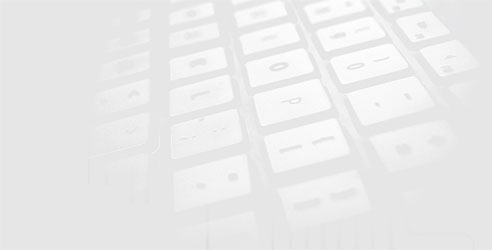
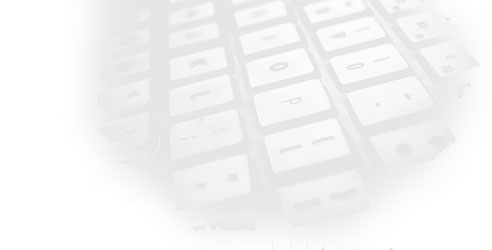
Create and fill out about page

diff --git a/karlfloersch/static/css/styles.css b/karlfloersch/static/css/styles.css
@@ -7,11 +7,33 @@ body {
   background-color: #eeeeee;
   background-image: url("../images/background.gif");
   background-repeat: repeat;
+  color: #555555;
 }
 
 footer {
 	text-align: center;
 }
+h1 {
+    font-family: 'Fjalla One', sans-serif;
+    font-size: 72px;
+}
+h2 {
+    font-family: 'Fjalla One', sans-serif;
+    font-size: 37px;
+}
+h3 {
+    font-family: 'Fjalla One', sans-serif;
+}
+h4 {
+    font-family: 'Fjalla One', sans-serif;
+}
+h5 {
+    font-family: 'Fjalla One', sans-serif;
+}
+h6 {
+    font-family: 'Fjalla One', sans-serif;
+}
+
 
 
 /* vvvvvvvv  HOMEPAGE  vvvvvvvv */
@@ -41,8 +63,9 @@ footer {
     background-repeat: repeat-x;
 }
 .static-header{
-    height: 400px;
-    background: url('../images/keyboard.jpg') right top no-repeat;
+    padding-top: 20px;
+    height: 230px;
+    background: url('../images/keyboard.png') right top no-repeat;
 }
 .static-header-list{
     list-style-type: none;
@@ -76,6 +99,7 @@ footer {
 /* vvvvvvvv  NAV BAR CSS  vvvvvvvv */
 .navbar {
   margin-bottom: 30px;
+  display:none;
 }
 .navbar-brand {
     padding-top: 0px;

diff --git a/templates/about.html b/templates/about.html
@@ -1,0 +1,38 @@
+{% extends 'base.html' %}
+{% load cms_tags static %}
+
+{% block breadcrumb %}{% endblock %}
+
+{% block content %}
+
+{% placeholder title %}
+
+<img src="{% static "images/me.png" %}" class="img-responsive" style="margin: 0 auto;" alt="Responsive image">
+<br>
+<br>
+<br>
+{% placeholder content1 %}
+
+<img src="{% static "images/making_is_fun.png" %}" class="img-responsive" style="margin: 0 auto;" alt="Responsive image">
+
+<br>
+<br>
+<br>
+{% placeholder content2 %}
+
+<img src="{% static "images/on_the_computer.png" %}" class="img-responsive" style="margin: 0 auto;" alt="Responsive image">
+
+<br>
+<br>
+<br>
+{% placeholder content3 %}
+
+<img src="{% static "images/on_the_mic.png" %}" class="img-responsive" style="margin: 0 auto;" alt="Responsive image">
+
+<br>
+<br>
+<br>
+
+{% placeholder content4 %}
+
+{% endblock %}

diff --git a/karlfloersch/settings.py b/karlfloersch/settings.py
@@ -176,6 +176,7 @@ CMS_TEMPLATES = (
     ('fullwidth.html', 'Full Width'),
     ('sidebar_left.html', 'Sidebar Left'),
     ('homepage.html', 'Homepage'),
+    ('about.html', 'About'),
 )
 
 
